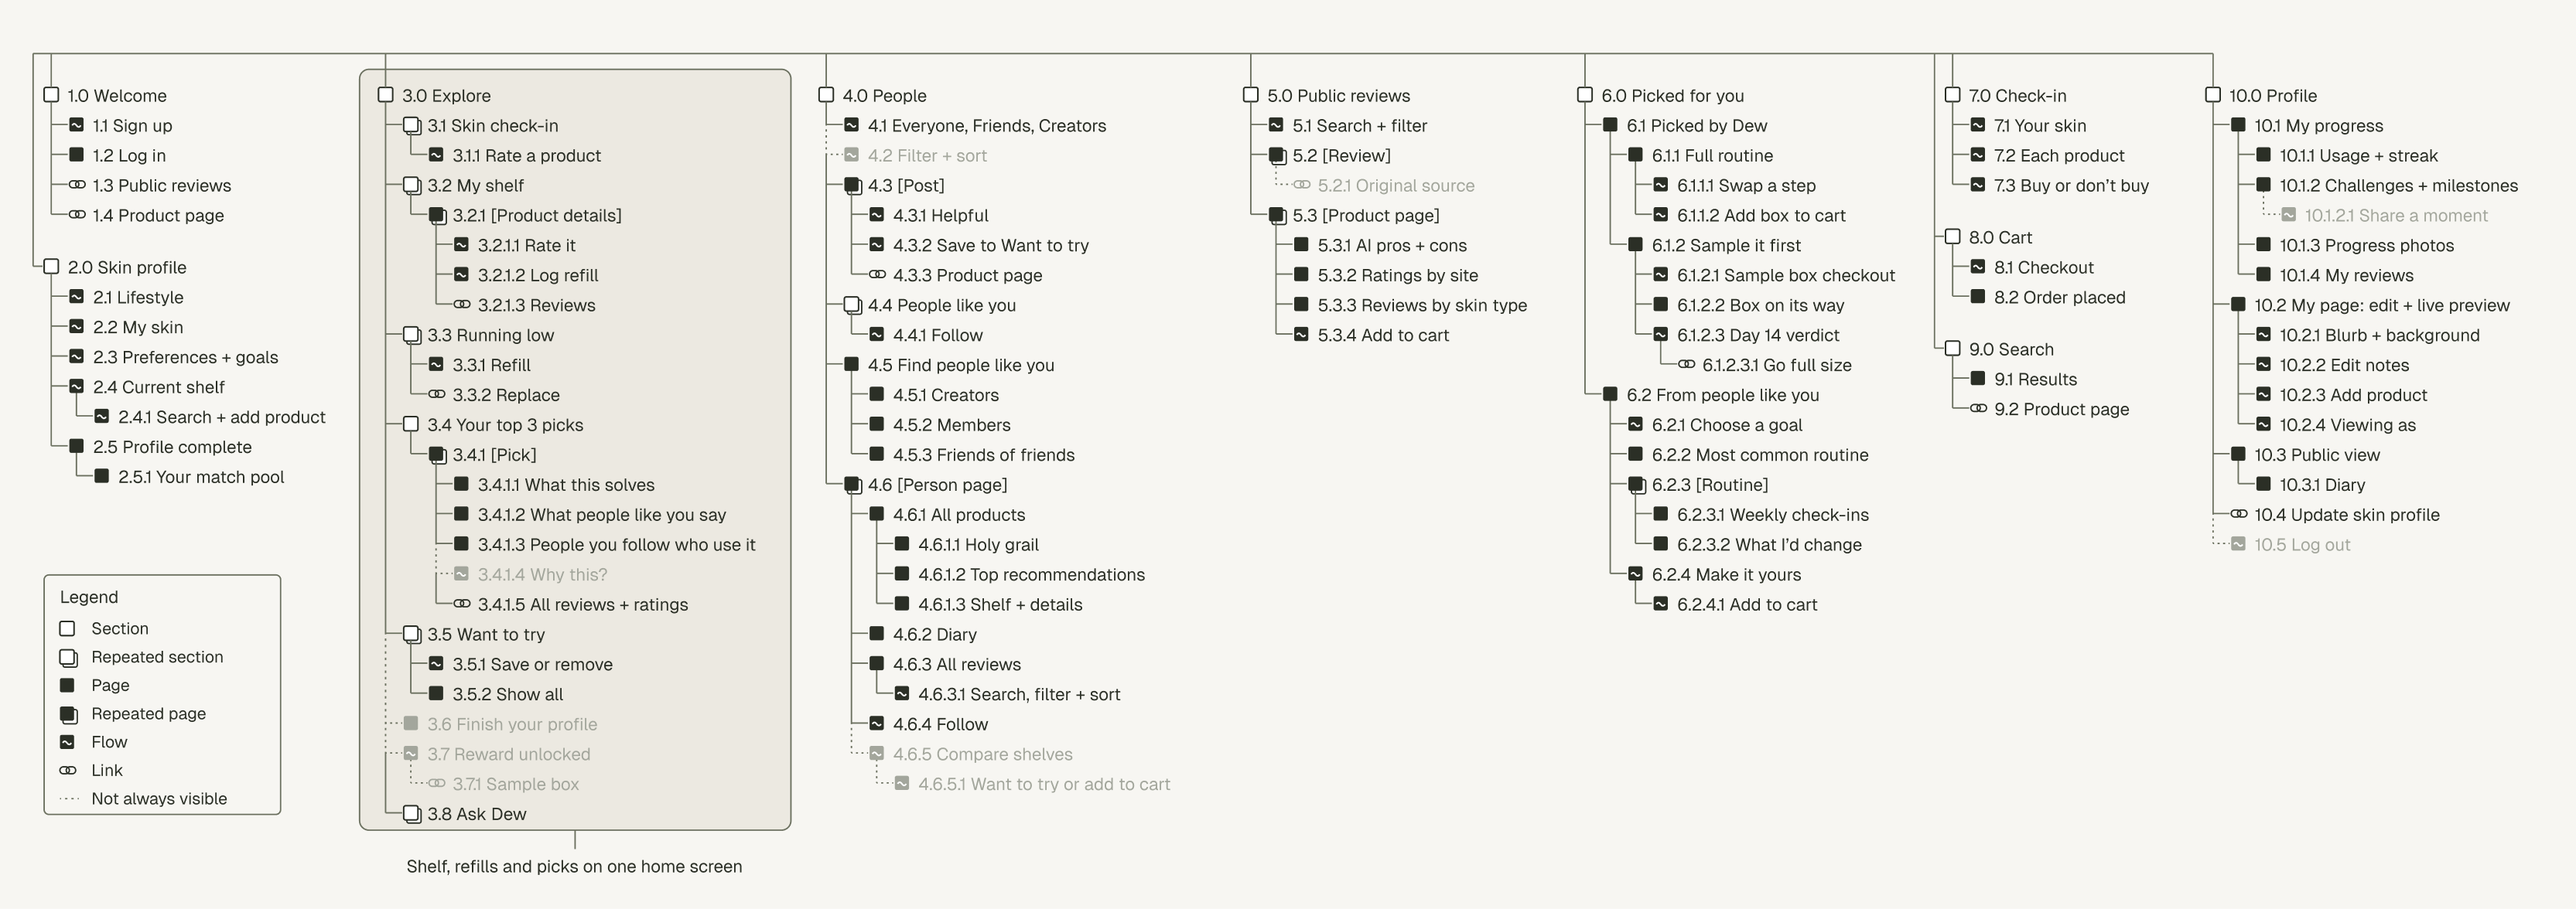
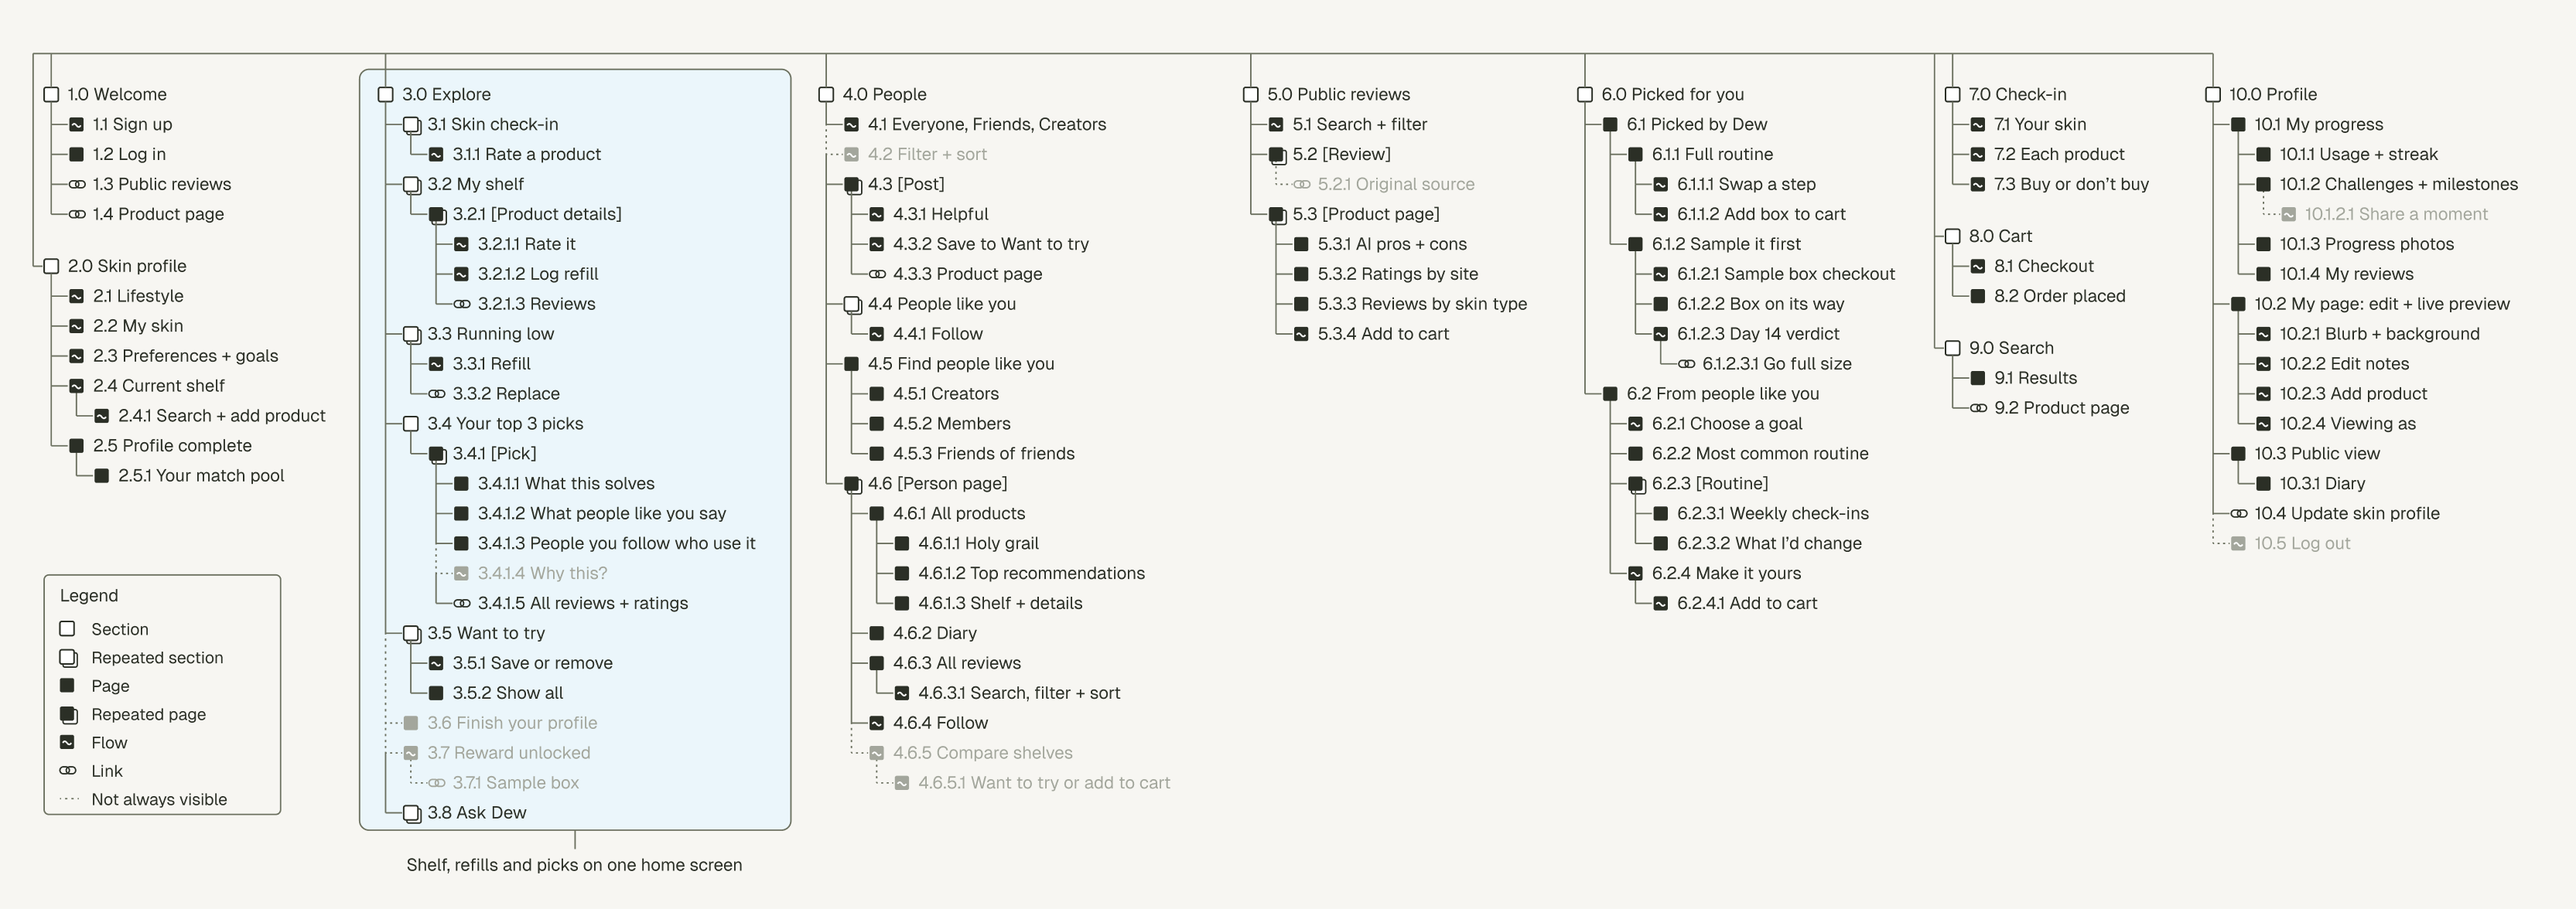
Dew case study: match the Figma dew frame
Copy, panel backgrounds, caption widths, a new Exploration section,
and the site map and design system re-exported from Figma.

diff --git a/script.js b/script.js
@@ -347,9 +347,8 @@ function dewBodyHTML() {
         ${label("The Opportunity")}
         <div class="dw-box dw-opp" ${bg("opp")}>
           ${char("treat2", 63, 61, " dw-opp__left")}
-          <p class="dx-heading">How might we make every check-in make the next recommendation smarter, for you and for other people with skin like yours?</p>
+          <p class="dx-heading">How can we design a platform where tracking and pooled reviews makes recommendations smarter, for you and for other people with skin like yours?</p>
           ${char("hydrate", 56, 59, " dw-opp__right")}
-          <p class="dw-opp__text">Your weekly results become a review, reviews rank products for people with your skin, Dew picks your routine from those rankings, and you track it. More tracked results make the picks more accurate, and better picks bring new people in to track their own.</p>
         </div>
       </section>
       <section class="dx-stack">
@@ -363,7 +362,7 @@ function dewBodyHTML() {
     <section class="dx-stack dw-section">
       ${label("The Flywheel")}
       <h3 class="dx-heading">Every check-in makes both yours and someone else’s next pick better</h3>
-      <p class="dw-intro">The idea arrived as two separate features: a tracker component and a community/social component. Each half is weak on its own, where trackers lose people once the novelty wears off, and review sites are full of strangers. Joined together, each check-in becomes evidence for someone like you, and that evidence is what makes the next pick worth trusting.</p>
+      <p class="dw-intro">Dew is composed of two main features: a tracker component and a community/social component. Each half is weak on its own, where trackers lose people once the novelty wears off, and review sites are full of strangers — but joined together, each check-in becomes evidence for someone with skin like you, and that evidence is what makes the next pick worth trusting.</p>
       <div class="dw-flywheel" ${bg("flywheel")}>
         <img class="dw-flywheel__diagram" src="${V2}flywheel.svg" width="518" height="369" alt="A loop: track your skin, results become a review, reviews rank products for people like you, Dew picks your routine, and back to tracking. In the middle: more data, better picks.">
         <p class="dw-flywheel__text">Every check-in is a data point for the people who share your skin. More tracked results make the rankings more accurate, and better picks bring new people in to track their own.</p>
@@ -389,41 +388,36 @@ function dewBodyHTML() {
     </section>
 
     <section class="dw-features">
-      ${feature({ tag: "Setting up", heading: "1. A 4-step profile setup builds your match pool before you see a single product.",
+      ${feature({ tag: "Setting up", heading: "A four-step profile setup builds your match pool before you see a single product.",
         video: "onboarding", panel: "onboarding",
-        caption: "Create an account, then four quick steps: your skin, where and how you live (Dew looks up your city’s humidity and UV), your goals and budget, and the products already on your shelf. Each layer narrows the pool, so the profile feels like it is working for you." })}
-      ${feature({ tag: "Tracking &amp; Ordering", heading: "2. Weekly check-ins for users to consistently log their progress is what feeds the recommendation model.",
-        video: "checkin", panel: "checkin", captionW: 462,
-        caption: "The weekly check-in opens over Explore: your skin overall, each product you are using, and, only at a product’s results week, Buy or Don’t buy. It takes about two minutes, and every answer re-ranks your shelf and your picks." })}
-      ${feature({ heading: "3. Tracking is the retention engine that rewards users with samples and discounts.",
-        video: "points", panel: "points", captionW: 752,
-        caption: "Dew is as much a retention product as a discovery one. The picks only get sharper if people keep logging after the first bottle. So the routine tracker is a game. Almost every point comes from tracking, not spending, and points buy the one thing that makes trying a new product less risky: a free box of travel-size minis.",
+        caption: "Each layer narrows your match pool so that recommendations will be more tailored." })}
+      ${feature({ tag: "Tracking &amp; Ordering", heading: "Weekly check-ins for users to consistently log their progress is what feeds the recommendation model.",
+        video: "checkin", panel: "onboarding", captionW: 790,
+        caption: "A 2-minute check-in in 3 parts: your skin overall, each product you are using, and, only at a product’s results week, Buy or Don’t buy. It takes about two minutes, and every answer re-ranks your shelf and your picks." })}
+      ${feature({ heading: "Tracking is the retention engine that rewards users with samples and discounts.",
+        video: "points", panel: "points", captionW: 756,
+        caption: "Dew is as much a retention product as a discovery one. The picks only get sharper if people keep logging after the first bottle. So the routine tracker is a game. Almost every point comes from tracking, not spending, and points can buy a less-risky free box of travel-size minis.",
         extra: cards([
           "Reward the habit, not the purchase: the fastest way to a reward is to keep logging.",
           "Points take the risk out of trying and smaller samples make it easier to try something new.",
           "Every sample ends in a verdict at certain milestones: Is this really working?",
           "Streaks, challenges, and a points-to-go bar on your profile keep the next reward in view.",
         ]) })}
-      ${feature({ heading: "4. Reorder what works, and replace what doesn’t.",
-        video: "refill", panel: "refill",
+      ${feature({ heading: "Reorder what works, and replace what doesn't.",
+        video: "refill", panel: "onboarding", captionW: 790,
         caption: "The moment a user runs out of product is when they are most likely to drift to a different store or a different routine. Dew uses your skincare logs to see it coming. It estimates when each product will run out, and your own check-ins decide what happens next, giving you the option to refill what is working, or swap out what isn’t with another product that people like you rate highest for that step of the routine." })}
-      ${feature({ tag: "Personalization", heading: "5. Picked For You is a personalized skincare bundle that addresses decision paralysis directly.",
-        video: "picked", panel: "picked", captionW: 492,
+      ${feature({ tag: "Personalization", heading: "Picked For You is a personalized skincare bundle that addresses decision paralysis directly.",
+        video: "picked", panel: "picked",
         caption: "Dew keeps what already works on your shelf, fills only the gaps, and shows the share of matched people who say Buy and how many weeks results took. Try it full size, or sample the same products as minis first." })}
-      ${feature({ heading: "6. Create routines based on the real, effective routines of their friends or creators they follow so that starting a new routine doesn’t mean starting from scratch.",
-        video: "routines", panel: "checkin", captionW: 752,
-        caption: "Routines for you has three ways in: Dew’s pick, a routine from someone you follow, or one built from your Want To Try list. Pick a goal and you see what worked for friends and creators with skin like yours: their weekly check-ins, when they added each product and what they’d change. “Make it mine” merges their routine with your shelf, so you only buy the steps you’re missing.",
-        extra: cards([
-          "Pick a goal and see the most common routine among the people you follow, and how many kept it.",
-          "Open one person’s routine: their check-ins week by week, including the weeks that got worse.",
-          "Make it yours: what you already have, what’s close enough, and only the gap goes in your box.",
-        ]) })}
-      ${feature({ heading: "7. As you browse reviews and save products to your Want To Try list, Dew creates a routine based off of these products that would go together.",
-        video: "wanttotry", panel: "picked", captionW: 752,
+      ${feature({ heading: "Create routines based on real, effective routines of people you trust so starting over isn’t as daunting.",
+        video: "routines", panel: "onboarding", captionW: 538,
+        caption: "Pick a skincare goal to see what worked for friends or creators you follow with skin like yours. Dew will formulate a routine for you based on the routine you wish to follow." })}
+      ${feature({ heading: "As you browse reviews and save products to your Want To Try list, Dew creates a routine based off of these products that would go together.",
+        video: "wanttotry", panel: "wanttotry", captionW: 784,
         caption: "Dew picks one saved product per routine step, the one people with your skin rate highest, and leaves out extras or doubles. Swap any step for something else you saved, then buy the routine full size or sample it as minis with points." })}
-      ${feature({ tag: "Social", heading: "8. Your skin community feed consists of peer and creator reviews.",
+      ${feature({ tag: "Social", heading: "Your skin community feed consists of peer and creator reviews.",
         video: "community", panel: "community",
-        caption: "The People tab is one feed of reviews from friends, creators and members with skin like yours, filterable to Everyone, Friends or Creators. Mark a review helpful, reply to it, or save the product to your Want To Try list. It is where you follow people whose skin is like yours, see what is in their routines, and learn from what worked and what didn’t. It is also there for something product pages can’t give: for acne, rosacea and other conditions that carry stigma, seeing someone with your skin share their progress week by week is a reminder that you are not alone." })}
+        caption: "Creators and Community are one People tab: a single feed of friends, creators and members with skin like yours, plus a Find people like you page, and you can compare your shelf with anyone’s to save or buy what they use that you don’t. It is where you follow people whose skin is like yours, see what is in their routines, and learn from what worked and what didn’t. It is also there for something product pages can’t give: for acne, rosacea and other conditions that carry stigma, seeing someone with your skin share their progress week by week is a reminder that you are not alone." })}
       ${feature({ heading: "9. Follow creators and friends whose skin profile matches yours, and shop their shelves by comparing them to yours.",
         video: "creators", panel: "creators",
         caption: "People already pick skincare by watching creators, but a creator’s routine is scattered across videos, captions and affiliate links. A creator page puts all of it in one place, like a link in bio for skincare: every product they use, ranked by them. Creators are then matched to you on skin type, climate and age (the similarity score). Every page has a Diary of their check-ins and a Compare shelves button that shows what they use that you don’t, ready to save or add to your cart.",
@@ -433,15 +427,15 @@ function dewBodyHTML() {
           "For brands to be discoverable and partnerships to continue past the affiliate program.",
         ]) })}
       ${feature({ heading: "10. Your profile tracks your progress and you can edit your page that is shown to the public.",
-        video: "profile", panel: "points", captionW: 752,
+        video: "profile", panel: "onboarding",
         caption: "My page is what other people see: your products, a diary of your journey and your reviews. My progress is private: your daily log, routine completion, challenges and milestones, and finishing a challenge drafts a post you can share to your page.",
-        more: [{ video: "profile-edit", panel: "onboarding", captionW: 752,
-          caption: "Moved, or changed your diet? Updating your skin profile re-ranks your picks. Edit your page opens an editor beside a live preview of your public page, and Expand shows it exactly as visitors will. Your photos and check-ins stay private unless you add them." }] })}
-      ${feature({ tag: "Search", heading: "11. <b>56,000+</b> pooled public reviews across <b>18,000+</b> products are searchable by skin type and summarized by AI so that all product information is accessible from one consolidated site.",
-        video: "reviews", panel: "reviews", captionW: 682,
+        more: [{ video: "profile-edit", panel: "profile-edit",
+          caption: "Updating your skin profile re-ranks your picks. Edit your page opens an editor beside a live preview of your public page, and Expand shows it exactly as visitors will. Your photos and check-ins stay private unless you add them." }] })}
+      ${feature({ tag: "Search", heading: "11. 56,000+ pooled public reviews across 18,000+ products are searchable by skin type and summarized by AI so that all product information is accessible from one consolidated site.",
+        video: "reviews", panel: "picked", captionW: 682,
         caption: "A daily scraper pulls reviews and star ratings from brand sites into one feed. Each product page summarizes the pros and cons with how often they come up (many, some, a few), then lists reviews from people with your skin type first, each linking back to where it was originally posted." })}
       ${feature({ tag: "Help / Support", heading: "12. Ask Dew is an AI chatbot that answers with your profile, your shelf and real review data.",
-        video: "askdew", panel: "askdew",
+        video: "askdew", panel: "points",
         caption: "An assistant powered by Claude, grounded in your skin profile, your shelf and Dew’s review summaries. It sits in the bottom corner of every page in the design system’s light blue and opens over the content, so asking never means leaving." })}
     </section>
 
@@ -449,18 +443,26 @@ function dewBodyHTML() {
 
     <section class="dx-stack dw-section">
       ${label("Information Architecture")}
-      <h3 class="dx-heading">Dew’s information architecture is built on four tabs and a skincare bathroom shelf as the through line.</h3>
-      <p class="dw-intro">The first run is a straight-line 1/ sign up, 2/ build a four-step profile, and 3/ see your match pool. After that the structure stays flat.<br>4 tabs hold everything the user can browse (in Hi-fi v8, Creators and Community became one People tab), while the shelf panel and Ask Dew stay on every page, so tracking and chatting never means navigating away.</p>
+      <h3 class="dx-heading">Dew’s information architecture is built on five tabs and a skincare bathroom shelf as the through line.</h3>
+      <p class="dw-intro">The first run is a straight-line 1/ sign up, 2/ build a four-step profile, and 3/ see your match pool. After that the structure stays flat.<br>5 tabs hold everything the user can browse, while the shelf panel and Ask Dew stay on every page, so tracking and chatting never means navigating away.</p>
       <div class="dw-ia2"><img src="${V2}ia.png" width="3330" height="1176" alt="Dew site map: Welcome, Skin profile, Explore, People (friends, creators and members in one tab), Public reviews, Picked for you (picked by Dew or from people like you), Check-in, Cart, Search and Profile, each with its pages and flows" loading="lazy" decoding="async"></div>
     </section>
 
     <hr class="dx-rule">
 
     <section class="dx-stack dw-section">
+      ${label("Exploration")}
+      <h3 class="dx-heading">Before landing on the final layout, I explored three other directions of how to best organize the user flow.</h3>
+      <p class="dw-intro">The first run is a straight-line 1/ sign up, 2/ build a four-step profile, and 3/ see your match pool. After that the structure stays flat.<br>5 tabs hold everything the user can browse, while the shelf panel and Ask Dew stay on every page, so tracking and chatting never means navigating away.</p>
+    </section>
+
+    <hr class="dx-rule">
+
+    <section class="dx-stack dw-section">
       ${label("Design System")}
-      <h3 class="dx-heading">A lightweight design system informs all brand and component decisions.</h3>
+      <h3 class="dx-heading">In parallel with wireframing, I built a lightweight design system that governs all brand and component decisions.</h3>
       <p class="dw-intro">Every color, size and corner in the Dew Figma file is a variable, and the same values are CSS variables on the live site, so one change updates every screen.</p>
-      <div class="dw-ds2"><img src="${V2}ds.png" width="2220" height="8981" alt="The Dew design system: foundations (color, typography, spacing, radius and elevation, layout, iconography and imagery, accessibility), components and patterns, including the Hi-fi v8 patterns: kind tag, diary entry, compare shelves, people you follow, why this, peer routine card, live preview editor and share a moment" loading="lazy" decoding="async"></div>
+      <div class="dw-ds2"><img src="${V2}ds.png" width="2220" height="8562" alt="The Dew design system: foundations (color, typography, spacing, radius and elevation, layout, iconography and imagery, accessibility), components (buttons, chips, step bars, cards, inputs) and patterns, including the product panel, profile header, kind tag, diary entry, compare shelves and share a moment" loading="lazy" decoding="async"></div>
     </section>`;
 }
 

diff --git a/messages.html b/messages.html
@@ -66,7 +66,7 @@
   </div>
 
   <script src="dx-locked.js?v=187"></script>
-  <script src="script.js?v=187"></script>
+  <script src="script.js?v=188"></script>
   <script src="messages.js?v=187"></script>
 </body>
 </html>

diff --git a/playground.html b/playground.html
@@ -33,6 +33,6 @@
 
   <script src="dx-locked.js?v=187"></script>
   <script src="archive.js?v=187"></script>
-  <script src="script.js?v=187"></script>
+  <script src="script.js?v=188"></script>
 </body>
 </html>

diff --git a/about.html b/about.html
@@ -73,6 +73,6 @@
   </div>
 
   <script src="dx-locked.js?v=187"></script>
-  <script src="script.js?v=187"></script>
+  <script src="script.js?v=188"></script>
 </body>
 </html>

diff --git a/index.html b/index.html
@@ -32,6 +32,6 @@
   </div>
 
   <script src="dx-locked.js?v=187"></script>
-  <script src="script.js?v=187"></script>
+  <script src="script.js?v=188"></script>
 </body>
 </html>
